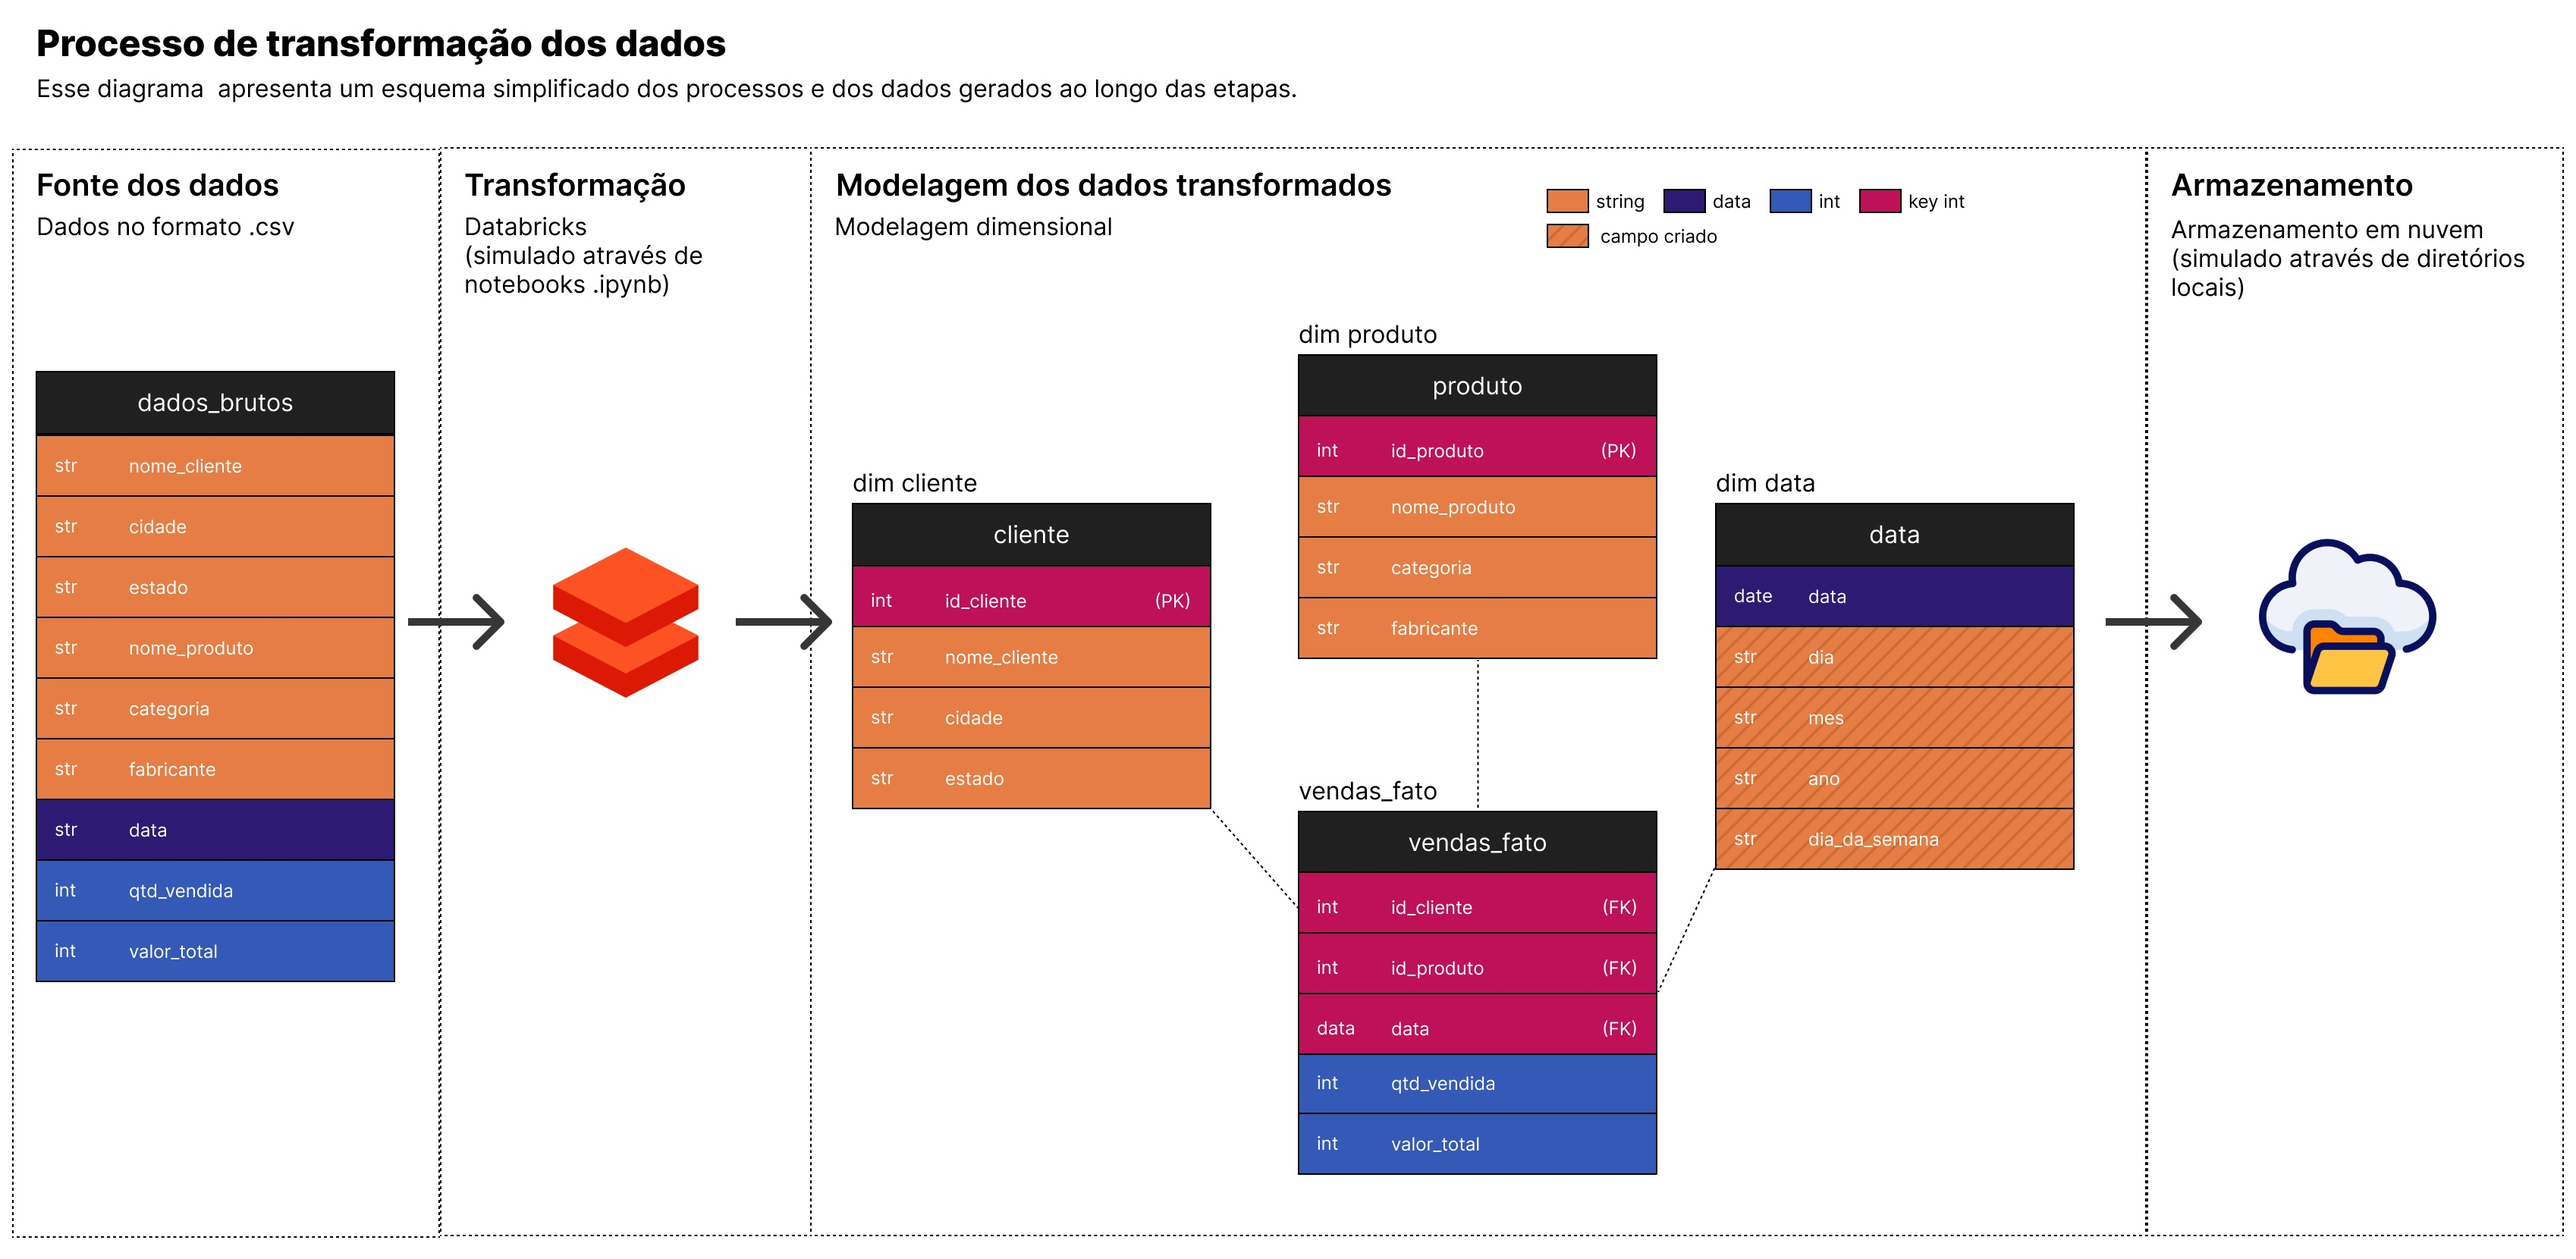
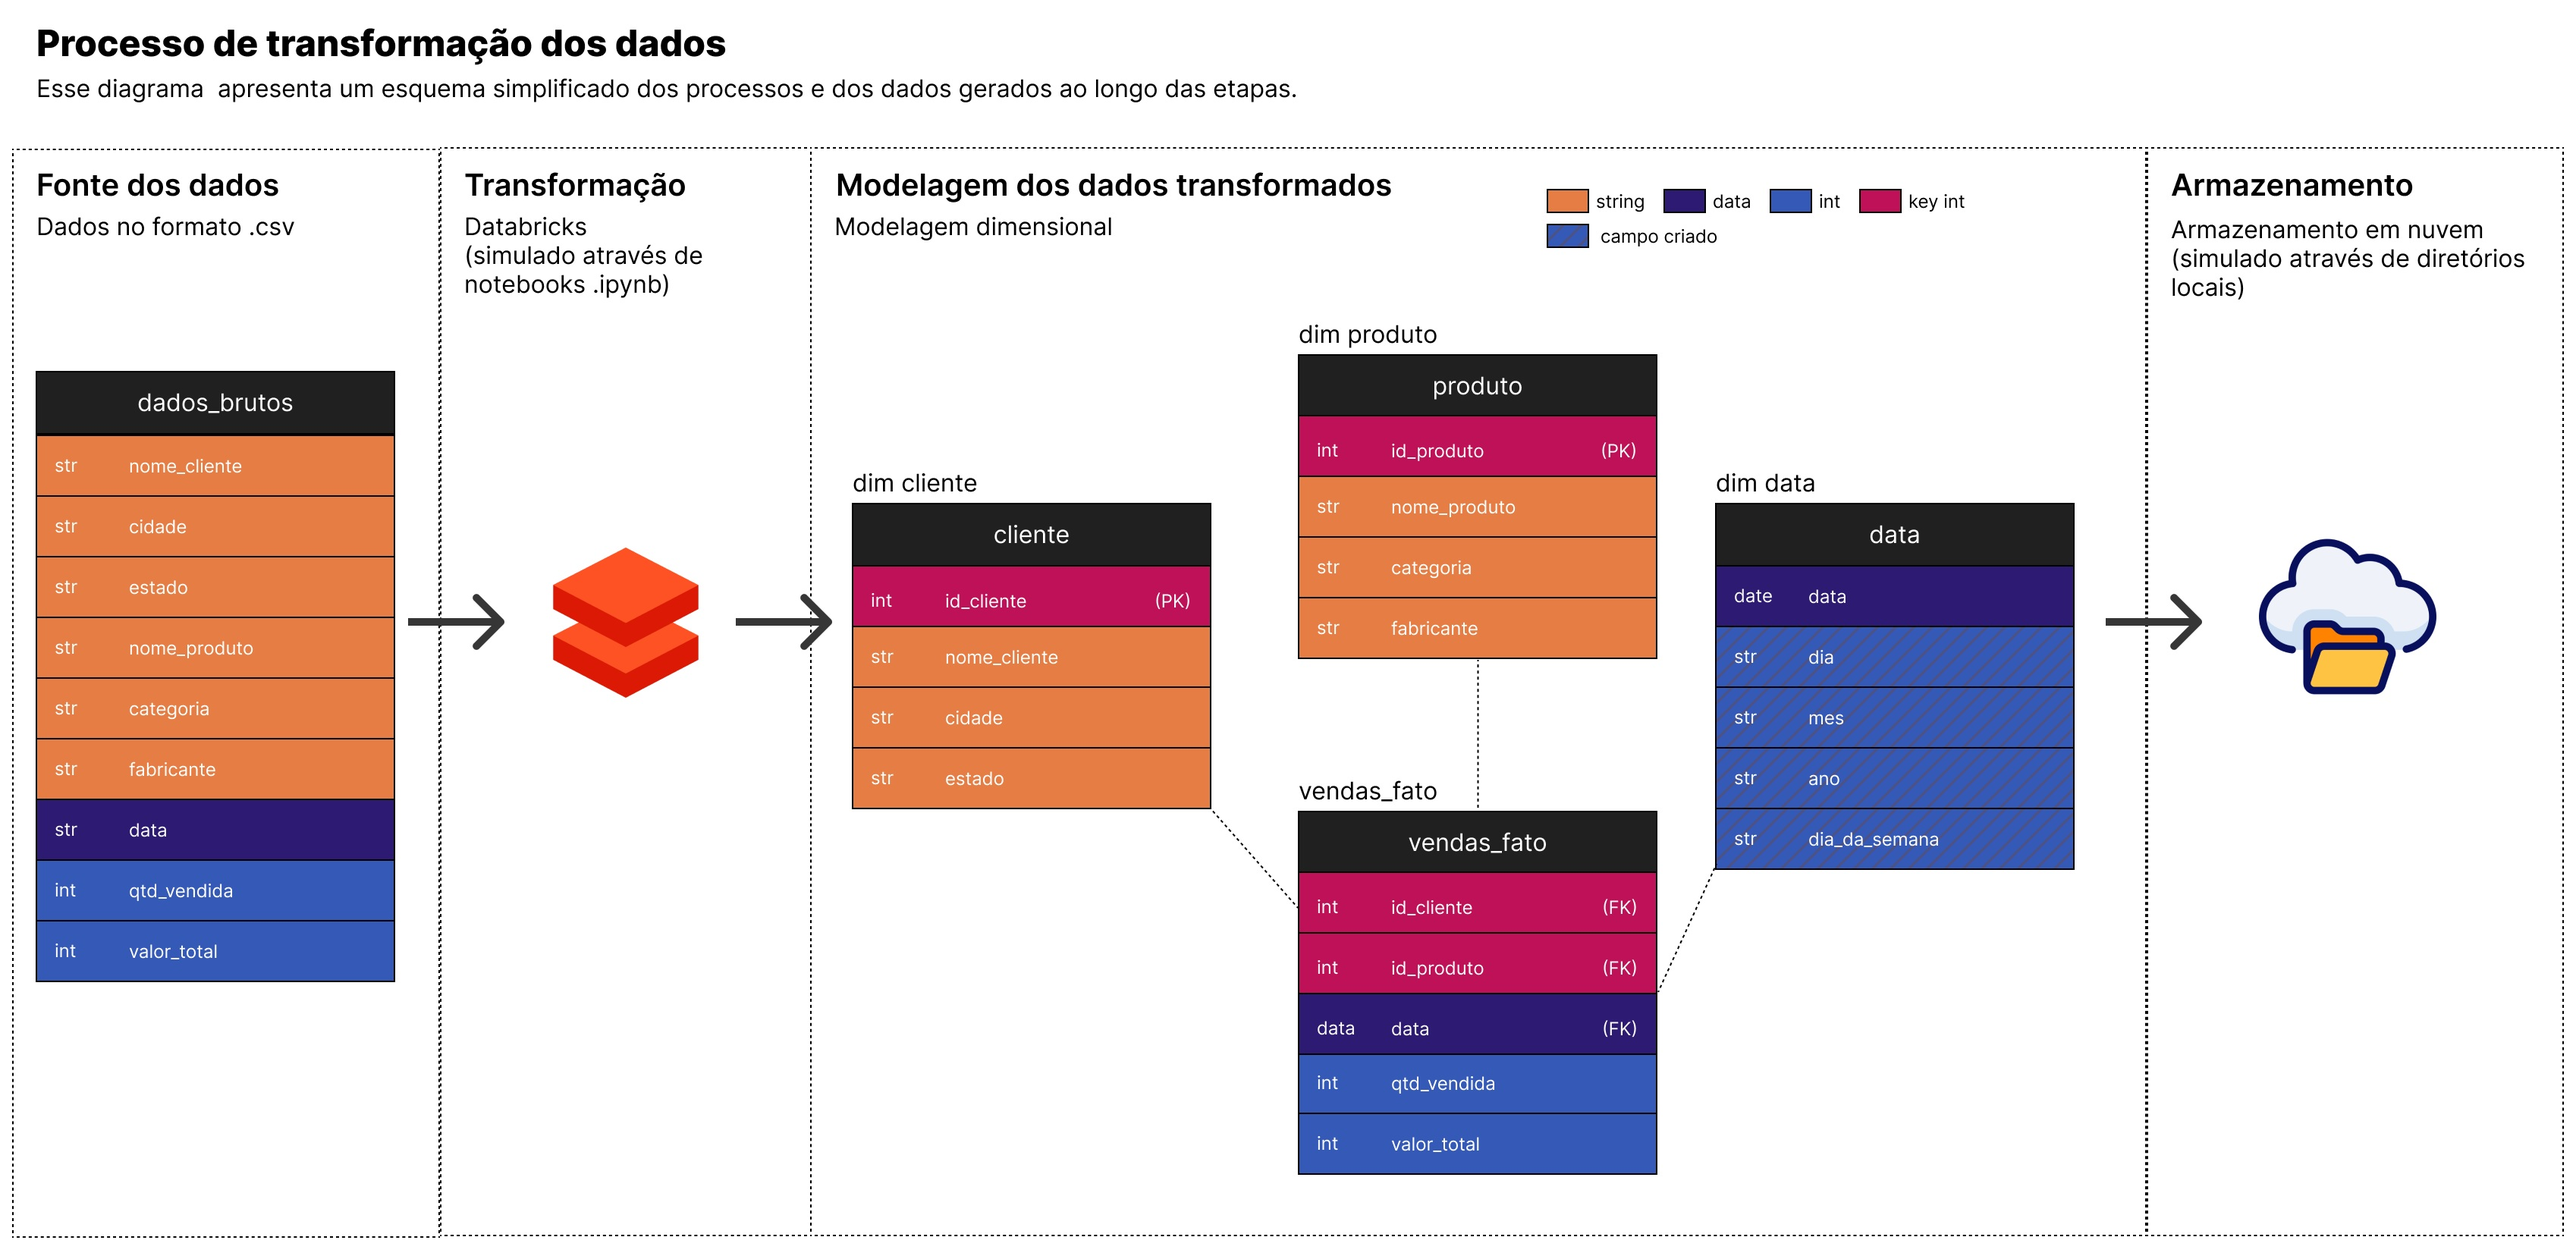
docs(readme): Atualizado imagens e conteudo do readme

Changed region(s): [[0.6555, 0.4916, 0.8115, 0.7066], [0.4994, 0.7681, 0.6555, 0.8602], [0.5931, 0.1843, 0.6243, 0.2151]]

diff --git a/README.md b/README.md
@@ -1,14 +1,99 @@
-# Processo Seletivo - Desafio Técnico - Gaudium
+# 🚀 Desafio Técnico - Gaudium
 
-## Contexto
+## 📁 Estrutura dos dados
 
-## Modelagem
+Arquivo de entrada: `Dados brutos.csv`
+| Coluna       | Tipo |
+|--------------|------|
+| nome_cliente | str  |
+| cidade       | str  |
+| estado       | str  |
+| nome_produto | str  |
+| categoria    | str  |
+| fabricante   | str  |
+| data         | date |
+| qtd_vendida  | int  |
+| valor_total  | int  |
 
-## Como executar o código
+A configuração ``inferSchema=True`` do método de leitura de arquivo PySpark foi capaz de capturar o schema de forma correta
 
-O código pode ser executado através do notebook `` ``
+## 📋 Identificação de entidades e fatos
 
-## Tecnologias utilizadas
+A partir de uma análise inicial, foi possível identificar as dimensões/contexto de clientes, produtos e data e os fatos, relacionados as medidas de quantidade vendida e valor total
+
+As tabelas de dimensões criadas foram:
+
+### Cliente
+
+A tabela de cliente utiliza o nome, cidade e estado para identificar um cliente único e o id gerado para essa tabela é um hash obtido através da combinação desses três valores
+
+| Coluna       | Tipo |
+|--------------|------|
+| id_cliente   | int  |
+| nome_cliente | str  |
+| cidade       | str  |
+| estado       | str  |
+
+### Produtos
+
+A tabela de produtos utiliza o nome e fabricante para identificar um produto único e o id gerado para essa tabela é um hash obtido através da combinação desses dois valores
+
+| Coluna       | Tipo |
+|--------------|------|
+| id_produtos   | int  |
+| nome_produto | str  |
+| categoria       | str  |
+| fabricante       | str  |
+
+### Datas
+
+A tabela de dias é gerado referenciando a data da primeira compra registrada e a data da última compra registrada como bases para gerar o intervalo completo de dias nesse intervalo. Além disso, a tabela de datas contém informações como o dia, mês, ano e dia da semana para possível utilização por parte da equipe de análise ou da equipe de ciência de dados
+
+| Coluna       | Tipo |
+|--------------|------|
+| data   | date  |
+| dia | int  |
+| mes       | int  |
+|    ano    | int  |
+|    dia_da_semana    | int  |
+
+### Vendas fato
+
+A tabela de vendas fato é a tabela central, no qual o contexto dessas dimensões são aplicadas. 
+A granularidade dela é por cliente, dia e produto e contém as informações de quantidade vendida e total. Ela foi gerada usando o arquivo bruto como base.
+
+| Coluna       | Tipo |
+|--------------|------|
+| data   | date  |
+| id_cliente | int  |
+| id_produto       | int  |
+|    qtde_vendida    | int  |
+|    valor_total    | int  |
+
+## 🏗 Diagrama do modelo e das etapas de transformação dos dados
+
+O diagrama é uma representação simplificada de como os dados estão sendo transformados. Ela não segue uma estrutura usual de diagramação de ETL, visto que o intuito é simplismente ilustrar de forma clara o processo específico para o desenvolvimento desse projeto particular.
+
+![image](imgs/diagram.jpg)
+
+## ▶ Como executar o código
+
+Código principal
+
+Pré-requisito para executar o código
+- Suba os arquivos main.py e config.toml para um ambiente com suporte ao pyspark
+- Suba o arquivo .csv. Por padrão o script espera que o arquivo esteja em um diretório data/raw/ no mesmo local que o main, porém, isso pode ser alterado no arquivo de configuração (config.toml)
+- Execute o código main.py
+- Os arquivos serão gerados dentro do diretórios determinados pelo arquivo de configuração (por padrão, data/processed/)
+
+---
+Código notebook
+
+Versão utilizada para testagem individual de cada base de dados e pode ser utilizado para investigar cada processo individualemente
+
+- Suba o notebook e o arquivo .csv em um ambiente com suporte ao pyspark
+
+## 🛠 Tecnologias utilizadas
 
 - PySpark
 - Spark SQL
@@ -16,9 +101,22 @@ O código pode ser executado através do notebook `` ``
 - Git e GitHub
 - Figma (Para geração dos diagramas)
 
-## Arquivos no repositório
+## 📂 Arquivos no repositório
 
-A estrutura do repositório
+A estrutura de arquivos do repositório
+
+- `notebooks/modelagem.ipynb`
+    - Notebook que pode ser utilizado para gerar os dados, porém, mais recomendado para testar funções e transformações específicas para algum dos arquivos
+- `main.py`
+    - Script principal
+- `config.toml`
+    - Arquivo de configuração para execução do script `main.py`
+    - A partir desse arquivo, pode ser alterado o caminho dos arquivos de entrada e saída de cada tabela, quais arquivos devem ser consolidados e também quais colunas serão utilizadas como identificadores únicos
+- `requirements_dev.txt`
+    - Arquivo com os pacotes utilizados e suas versões
+
+#### Arquivos gerados
+Os arquivos de saída foram geradas de forma a simular um processo de ETL.
 
 ```
 data
@@ -39,7 +137,8 @@ data
     └─── Dados brutos.csv
 ```
 
-## Algumas referências
+Observação:
+- São gerados dois arquivos para cada grupo de dados, uma versão que sempre será a mais recente e outra contendo a informação da data de geração, que pode ser utilizado para versionamento.
+ 
 
-https://www.kimballgroup.com/2008/11/fact-tables/
-https://www.kimballgroup.com/2003/01/fact-tables-and-dimension-tables/
+## ✅ Observações
